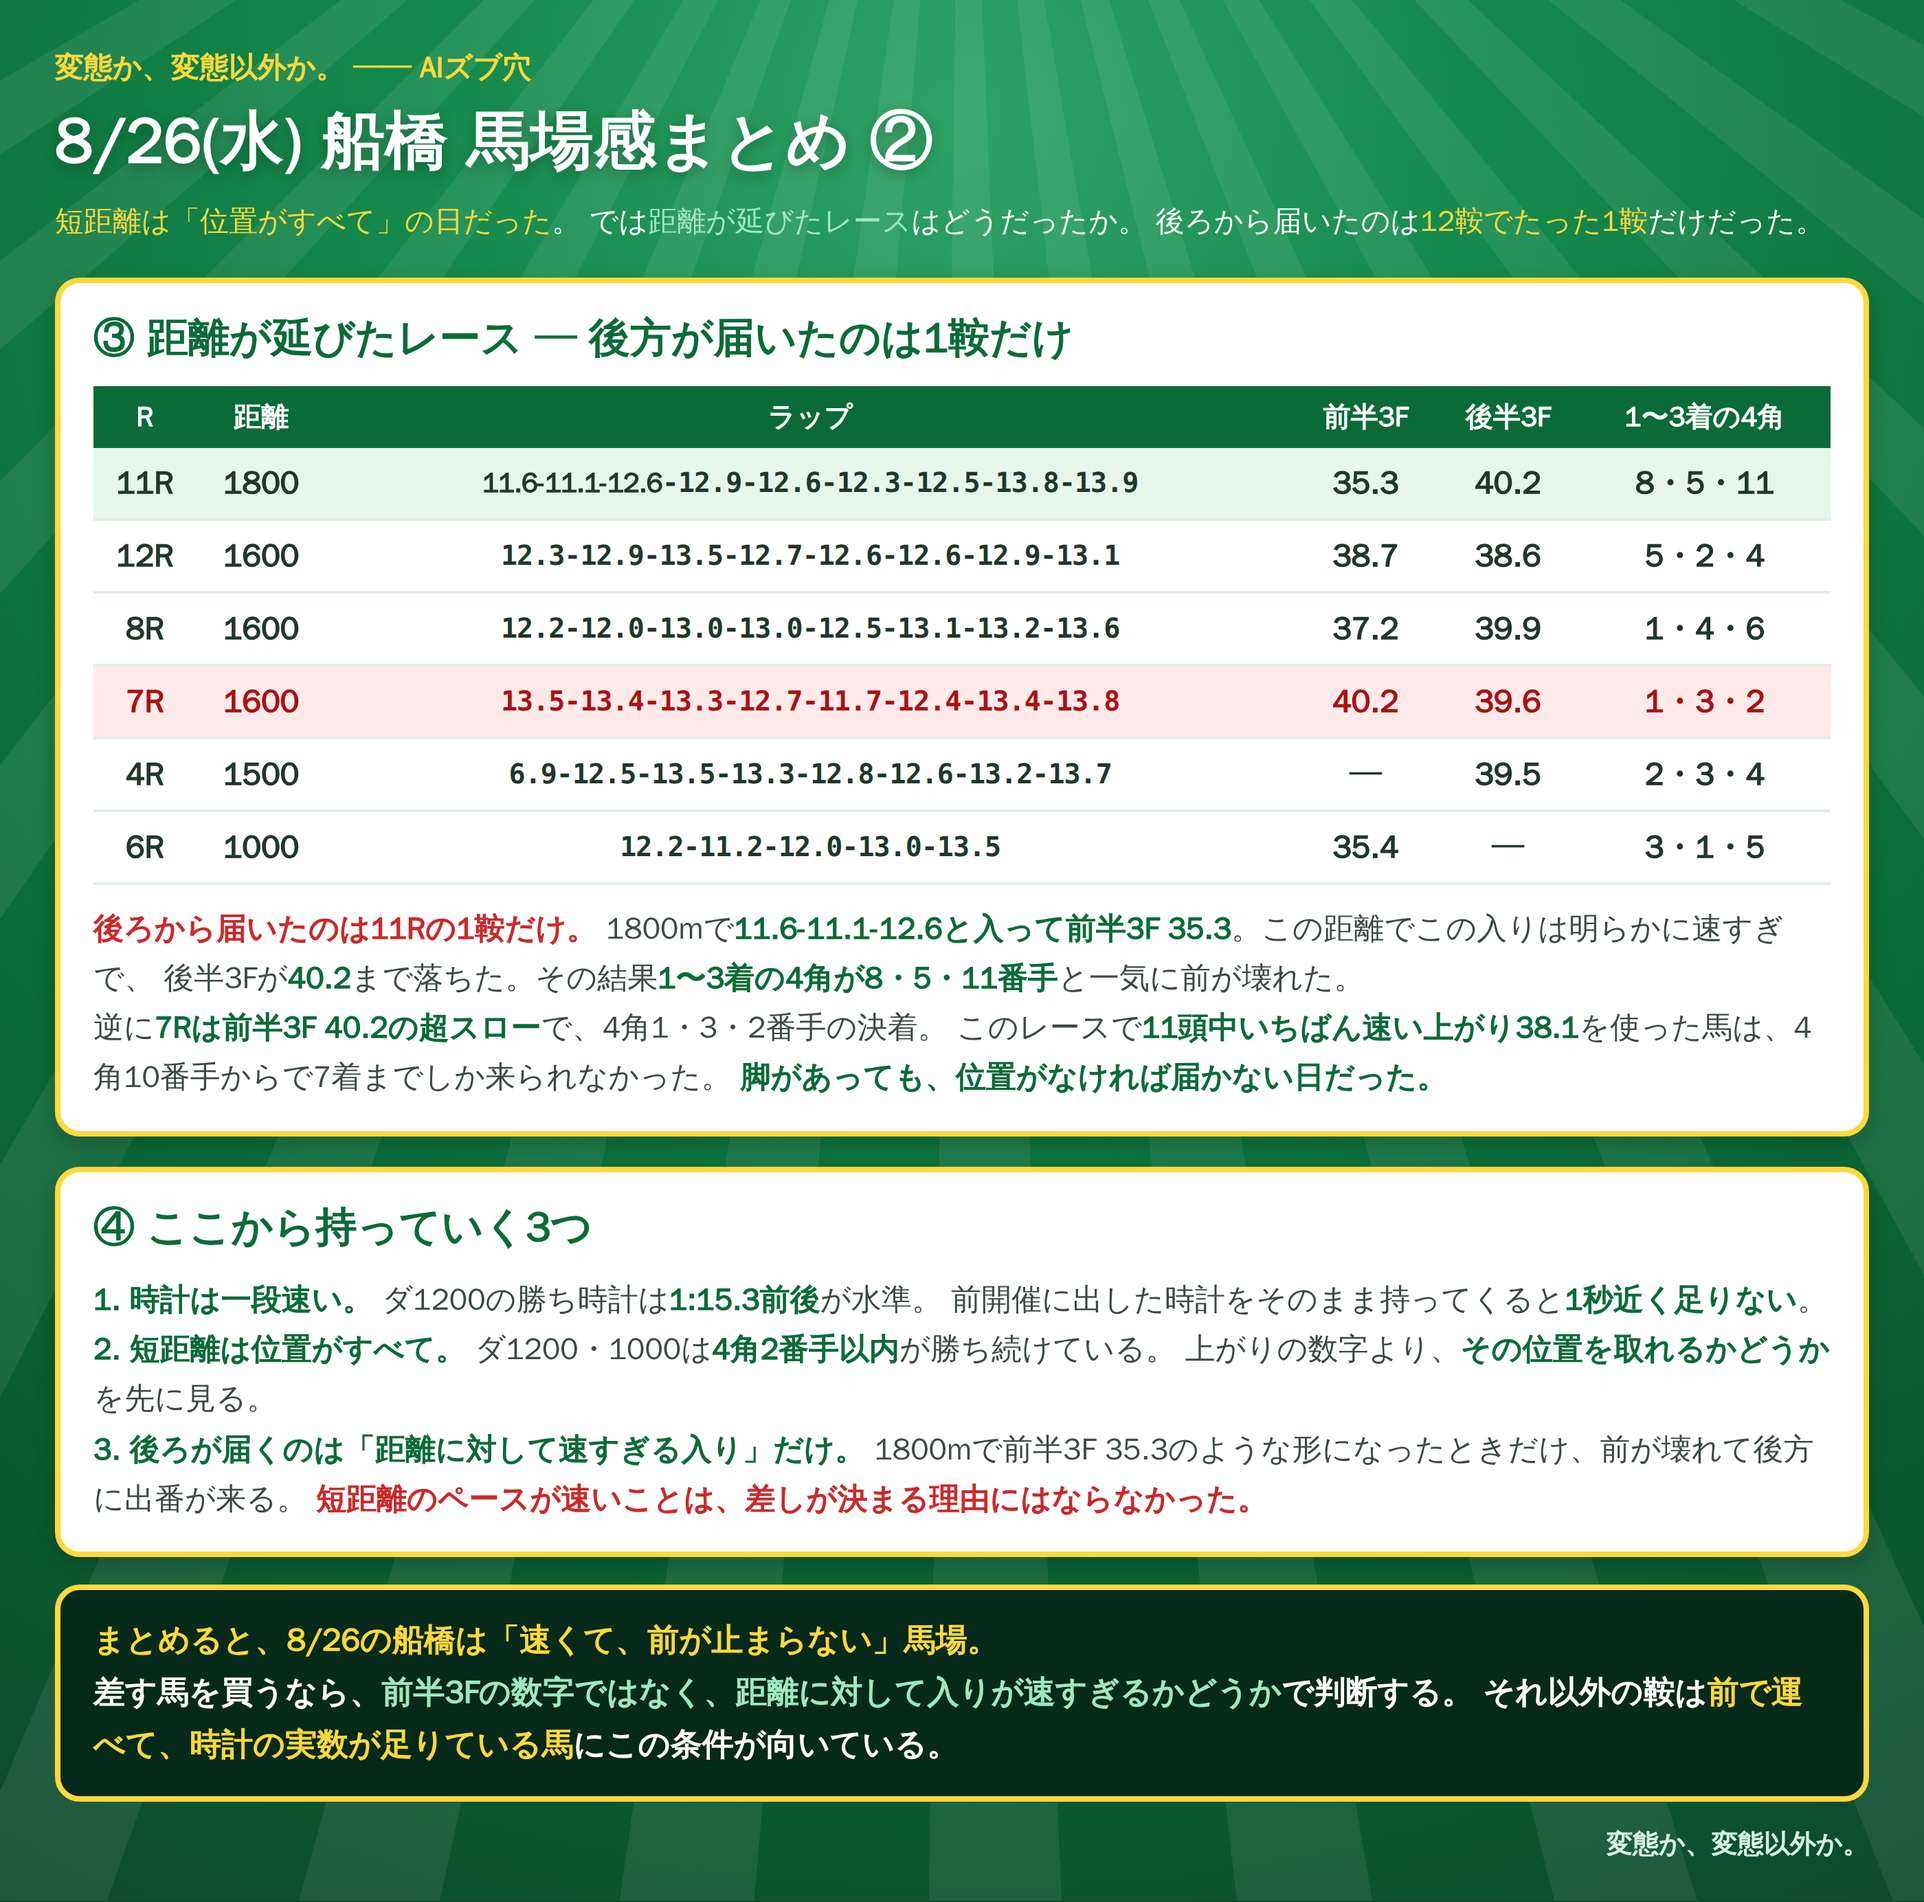
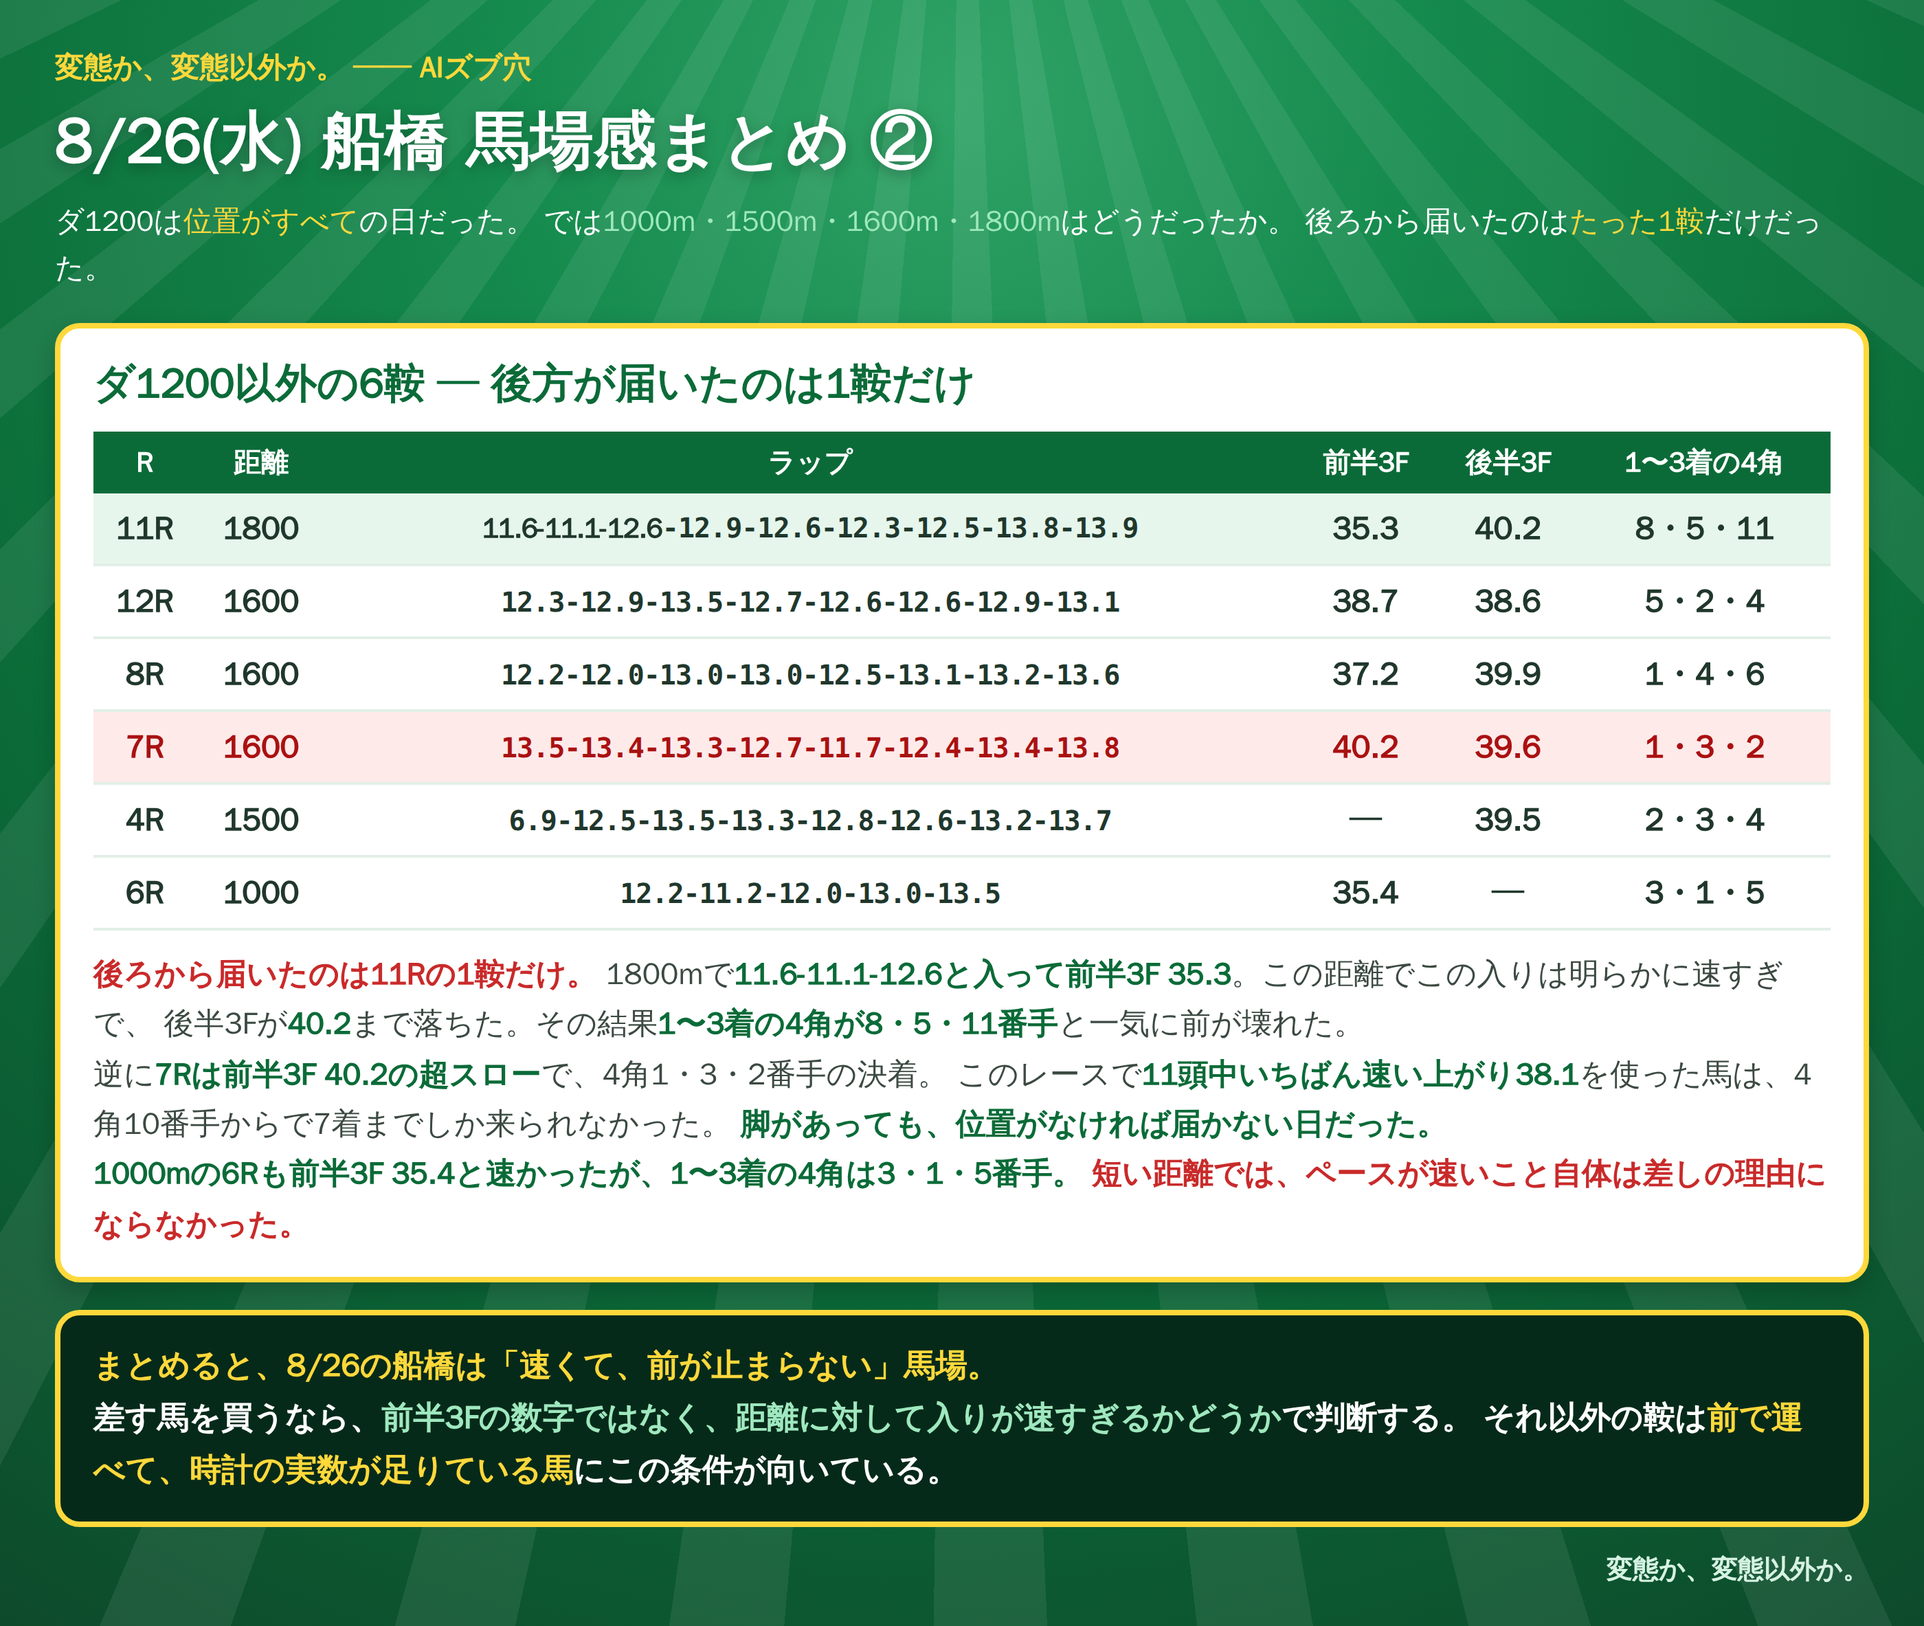
notes: 8/26 馬場感まとめを まとめ3つ→ダ1200→それ以外 の順に再構成

diff --git a/notes/live/2026-08-26/funabashi_baba_1.html b/notes/live/2026-08-26/funabashi_baba_1.html
@@ -23,18 +23,36 @@
  .foot{margin-top:20px;background:#062a19;border:4px solid #ffd83b;border-radius:18px;padding:18px 24px;color:#fff;font-size:23px;font-weight:800;line-height:1.65;}
  .foot .y{color:#ffd83b;} .foot .c{color:#9fe8bf;} .foot .r{color:#ffb3b3;}
  .sig{text-align:right;color:#d6f2e2;font-size:19px;font-weight:800;margin-top:18px;}
+
+ .big{margin-top:22px;background:#062a19;border:4px solid #ffd83b;border-radius:18px;padding:22px 26px;}
+ .big .bh{color:#ffd83b;font-size:30px;font-weight:900;margin-bottom:14px;}
+ .big .it{color:#fff;font-size:24px;font-weight:800;line-height:1.6;margin-bottom:14px;}
+ .big .it:last-child{margin-bottom:0;}
+ .big .no{color:#ffd83b;font-size:27px;font-weight:900;}
+ .big .y{color:#ffd83b;} .big .c{color:#9fe8bf;} .big .r{color:#ffb3b3;}
 </style></head>
 <body><div class="card"><div class="rays"></div><div class="inner">
 
 <div class="kicker">変態か、変態以外か。 ── AIズブ穴</div>
 <div class="title">8/26(水) 船橋 馬場感まとめ ①</div>
-<div class="lead">結論から。<span class="y">この日の船橋は前が止まらなかった</span>。
-ダ1200は<span class="c">6鞍すべて4角2番手以内の馬が勝った</span>。
-しかも<span class="y">時計は前開催より0.9秒速い</span>。
-速い決着なのに前が残る、という日だった。</div>
+<div class="lead">この日の船橋は<span class="y">速くて、前が止まらない</span>馬場だった。
+まず結論の3つから書く。<span class="c">そのあとにダ1200、それ以外の距離</span>の順で中身を見ていく。</div>
+
+<div class="big">
+ <div class="bh">まとめ ─ この日から持っていく3つ</div>
+ <div class="it"><span class="no">1.</span> <span class="y">時計が一段速くなった。</span>
+ ダ1200の勝ち時計は<span class="c">1:15.3前後</span>が水準。前開催（8/2〜8/6）の1:16.2より<span class="r">0.9秒速い</span>。
+ 前開催に出した時計をそのまま持ってくると<span class="r">1秒近く足りない</span>。</div>
+ <div class="it"><span class="no">2.</span> <span class="y">短距離は位置がすべて。</span>
+ ダ1200・1000は<span class="c">4角2番手以内</span>が勝ち続けている。
+ 上がりの数字より、<span class="c">その位置を取れるかどうか</span>を先に見る。</div>
+ <div class="it"><span class="no">3.</span> <span class="y">後ろが届くのは「距離に対して速すぎる入り」だけ。</span>
+ 1800mで前半3F 35.3のような形になったときだけ、前が壊れて後方に出番が来た。
+ <span class="r">短距離のペースが速いことは、差しが決まる理由にはならなかった。</span></div>
+</div>
 
 <div class="sec">
- <div class="sh">① ダ1200 全6鞍 ─ 前半3Fが速くても前が残った</div>
+ <div class="sh">ダ1200 全6鞍 ─ 前半3Fが速くても前が残った</div>
  <table>
   <tr><th>R</th><th>ラップ</th><th>勝ち時計</th><th>前半3F</th><th>勝ち馬の4角</th><th>1〜3着の4角</th></tr>
   <tr class="hi"><td>9R</td><td class="lap">12.3-<b>11.9-11.6-11.8</b>-12.6-13.2</td><td><b>1:13.4</b></td><td><b>35.8</b></td><td><b>1</b></td><td>1・3・2</td></tr>
@@ -47,12 +65,12 @@
  <div class="note"><b class="r">6鞍とも4角2番手以内が勝った。</b>
  いちばん驚いたのが<b>9R</b>で、<b>11.9-11.6-11.8と3ハロン続けて11秒台</b>が出て前半3Fが<b>35.8</b>。
  普通なら前が力尽きるラップだが、<b>4角1番手がそのまま押し切っている</b>。2Rも35.7で4角1番手。<br>
- 勝ち時計の平均は<b>1:15.3</b>。前開催（8/2〜8/6）の<b>1:16.2</b>より<b class="r">0.9秒速い</b>。
+ 勝ち時計の平均は<b>1:15.3</b>。前開催の<b>1:16.2</b>より<b class="r">0.9秒速い</b>。
  <b>砂が締まって、走破時計そのものが一段速くなっている。</b></div>
 </div>
 
 <div class="sec">
- <div class="sh">② 前日8/25と真逆だった ─ 同じ数字で逆の結果</div>
+ <div class="sh">前日8/25と真逆だった ─ 同じ数字で逆の結果</div>
  <table>
   <tr><th>日</th><th>前半3F</th><th>勝ち馬の4角</th><th>結果の傾向</th></tr>
   <tr><td><b>8/25</b></td><td>35.0</td><td><b>11</b></td><td class="l">後方から差し切り。35.9の鞍でも4角11番手が2着</td></tr>

diff --git a/notes/live/2026-08-26/funabashi_baba_2.html b/notes/live/2026-08-26/funabashi_baba_2.html
@@ -23,16 +23,24 @@
  .foot{margin-top:20px;background:#062a19;border:4px solid #ffd83b;border-radius:18px;padding:18px 24px;color:#fff;font-size:23px;font-weight:800;line-height:1.65;}
  .foot .y{color:#ffd83b;} .foot .c{color:#9fe8bf;} .foot .r{color:#ffb3b3;}
  .sig{text-align:right;color:#d6f2e2;font-size:19px;font-weight:800;margin-top:18px;}
+
+ .big{margin-top:22px;background:#062a19;border:4px solid #ffd83b;border-radius:18px;padding:22px 26px;}
+ .big .bh{color:#ffd83b;font-size:30px;font-weight:900;margin-bottom:14px;}
+ .big .it{color:#fff;font-size:24px;font-weight:800;line-height:1.6;margin-bottom:14px;}
+ .big .it:last-child{margin-bottom:0;}
+ .big .no{color:#ffd83b;font-size:27px;font-weight:900;}
+ .big .y{color:#ffd83b;} .big .c{color:#9fe8bf;} .big .r{color:#ffb3b3;}
 </style></head>
 <body><div class="card"><div class="rays"></div><div class="inner">
 
 <div class="kicker">変態か、変態以外か。 ── AIズブ穴</div>
 <div class="title">8/26(水) 船橋 馬場感まとめ ②</div>
-<div class="lead"><span class="y">短距離は「位置がすべて」の日だった</span>。
-では<span class="c">距離が延びたレース</span>はどうだったか。
-後ろから届いたのは<span class="y">12鞍でたった1鞍</span>だけだった。</div>
+<div class="lead">ダ1200は<span class="y">位置がすべて</span>の日だった。
+では<span class="c">1000m・1500m・1600m・1800m</span>はどうだったか。
+後ろから届いたのは<span class="y">たった1鞍</span>だけだった。</div>
+
 <div class="sec">
- <div class="sh">③ 距離が延びたレース ─ 後方が届いたのは1鞍だけ</div>
+ <div class="sh">ダ1200以外の6鞍 ─ 後方が届いたのは1鞍だけ</div>
  <table>
   <tr><th>R</th><th>距離</th><th>ラップ</th><th>前半3F</th><th>後半3F</th><th>1〜3着の4角</th></tr>
   <tr class="win"><td>11R</td><td>1800</td><td class="lap"><b>11.6-11.1-12.6</b>-12.9-12.6-12.3-12.5-13.8-13.9</td><td><b>35.3</b></td><td><b>40.2</b></td><td><b>8・5・11</b></td></tr>
@@ -47,25 +55,13 @@
  後半3Fが<b>40.2</b>まで落ちた。その結果<b>1〜3着の4角が8・5・11番手</b>と一気に前が壊れた。<br>
  逆に<b>7Rは前半3F 40.2の超スロー</b>で、4角1・3・2番手の決着。
  このレースで<b>11頭中いちばん速い上がり38.1</b>を使った馬は、4角10番手からで7着までしか来られなかった。
- <b>脚があっても、位置がなければ届かない日だった。</b></div>
-</div>
-
-<div class="sec">
- <div class="sh">④ ここから持っていく3つ</div>
- <div class="note">
- <b>1. 時計は一段速い。</b> ダ1200の勝ち時計は<b>1:15.3前後</b>が水準。
- 前開催に出した時計をそのまま持ってくると<b>1秒近く足りない</b>。<br>
- <b>2. 短距離は位置がすべて。</b> ダ1200・1000は<b>4角2番手以内</b>が勝ち続けている。
- 上がりの数字より、<b>その位置を取れるかどうか</b>を先に見る。<br>
- <b>3. 後ろが届くのは「距離に対して速すぎる入り」だけ。</b>
- 1800mで前半3F 35.3のような形になったときだけ、前が壊れて後方に出番が来る。
- <b class="r">短距離のペースが速いことは、差しが決まる理由にはならなかった。</b></div>
+ <b>脚があっても、位置がなければ届かない日だった。</b><br>
+ <b>1000mの6Rも前半3F 35.4と速かったが、1〜3着の4角は3・1・5番手。</b>
+ <b class="r">短い距離では、ペースが速いこと自体は差しの理由にならなかった。</b></div>
 </div>
 
 <div class="foot"><span class="y">まとめると、8/26の船橋は「速くて、前が止まらない」馬場。</span><br>
 差す馬を買うなら、<span class="c">前半3Fの数字ではなく、距離に対して入りが速すぎるかどうか</span>で判断する。
 それ以外の鞍は<span class="y">前で運べて、時計の実数が足りている馬</span>にこの条件が向いている。</div>
-<div class="sig">変態か、変態以外か。</div>
-</div></div></body></html>
 <div class="sig">変態か、変態以外か。</div>
 </div></div></body></html>

diff --git a/notes/live/2026-08-26/README.md b/notes/live/2026-08-26/README.md
@@ -1369,8 +1369,10 @@ JRA東京1400で上がり35.8も使っている。ただし**1600mは未経験**
 
 # 馬場感まとめ（note公開用）
 
-画像: `funabashi_baba_1.png`（①ダ1200全6鞍 ／ ②前日8/25との比較）
-　　　`funabashi_baba_2.png`（③距離が延びたレース ／ ④ここから持っていく3つ）
+画像: `funabashi_baba_1.png`（**まとめ3つ** ／ ダ1200全6鞍 ／ 前日8/25との比較）
+　　　`funabashi_baba_2.png`（ダ1200以外の6鞍 ／ 締め）
+
+構成は **まとめ3つ → ダ1200 → それ以外の距離** の順。結論を先に置いてある。
 
 結果検証（`funabashi_review_1/2`）から**印の成績と当日の3つの読みの答え合わせを外し、
 馬場の事実だけで読める形に組み直した公開用**。予想を買っていない読者にも通じる構成にしてある。
